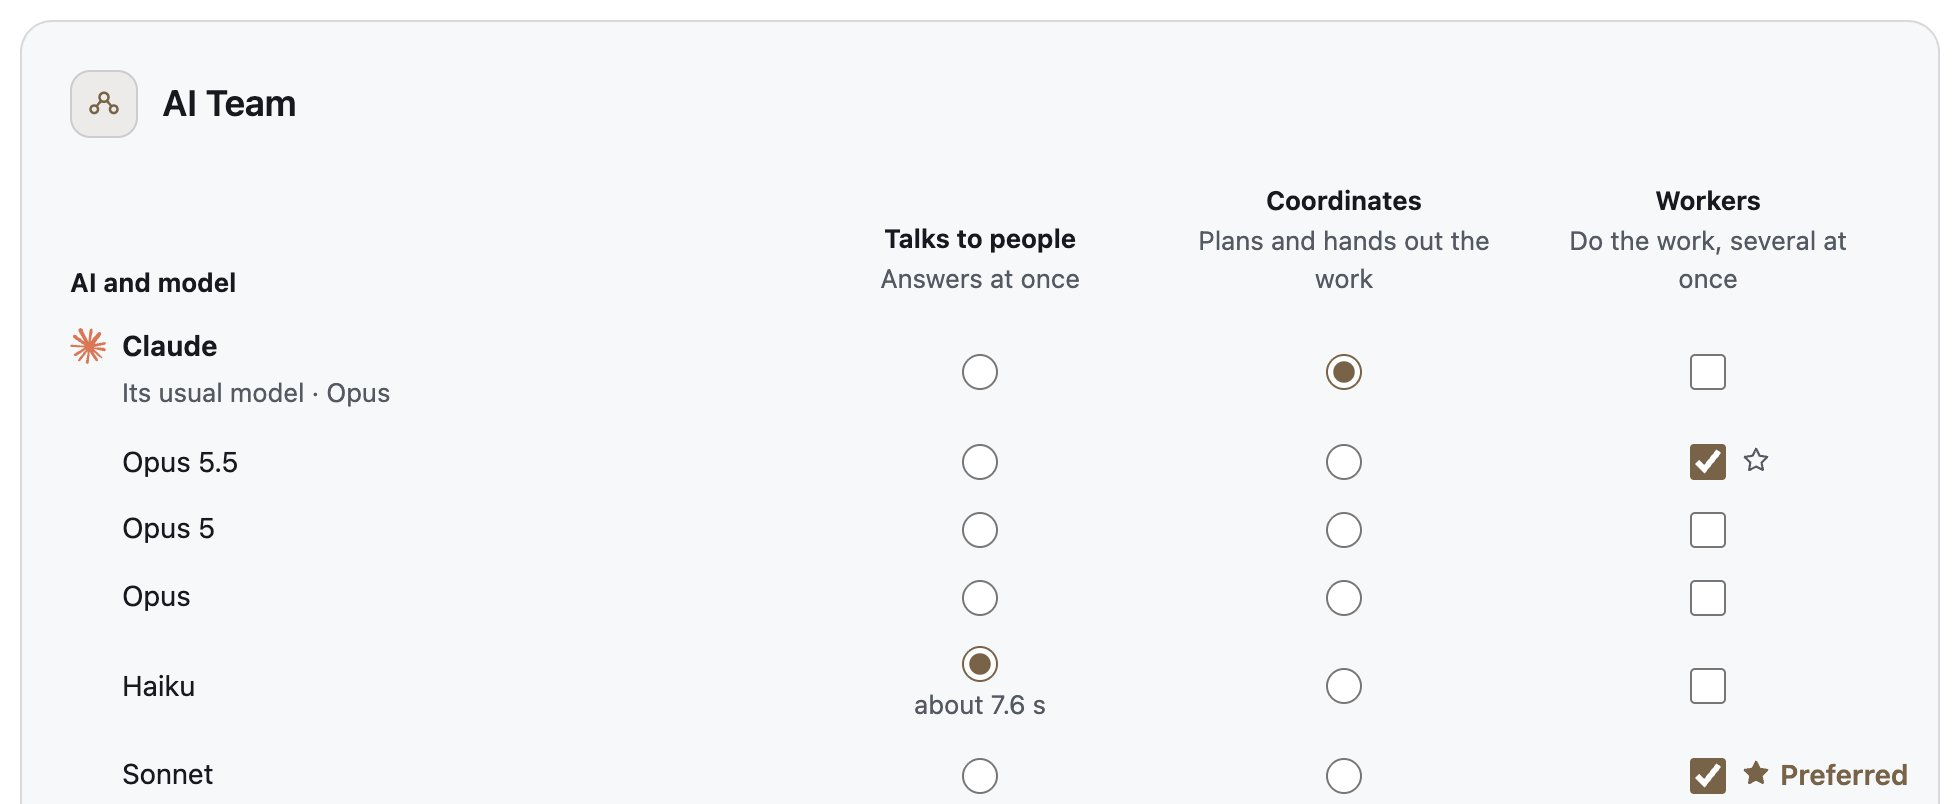
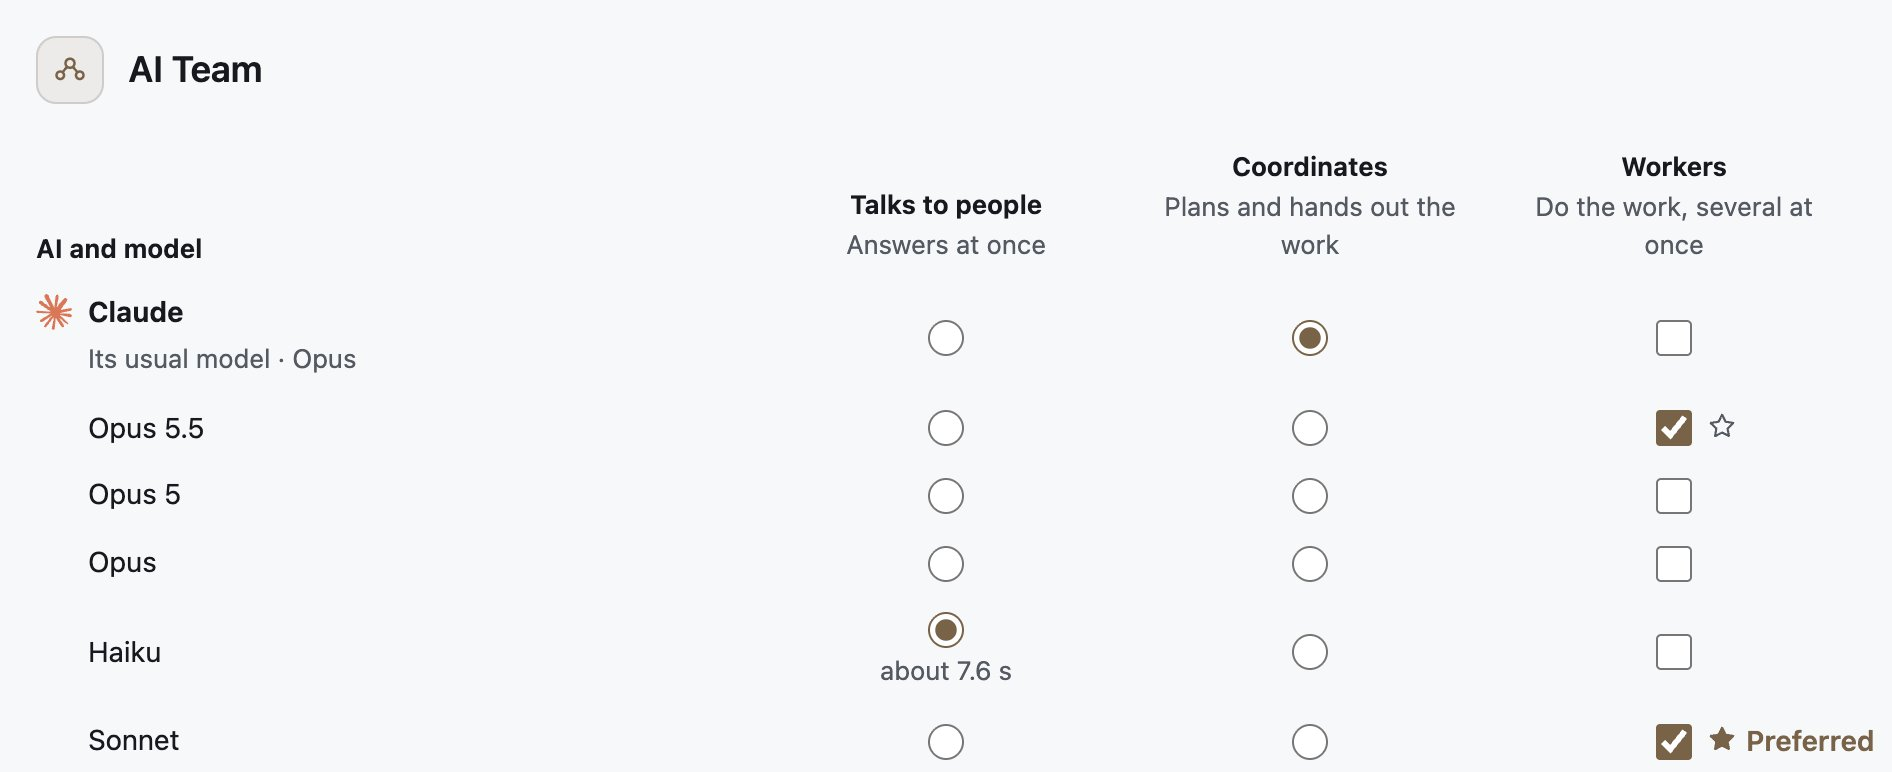
Fourth round: Ask me first said exactly; cleaner crops
- Ask me first, in the README, quickstart, guide, docs/10 and the 24
  November changelog entry: every answer and every job for a person on a
  channel waits for approval (the owner's own Chat is never held); three
  short messages go out without approval, each written with every tool
  off: the checking line, the reply after a Reject, and a line that it
  cannot do this now when Off is chosen while a request waits.
- The Needs you picture is captioned as a request the expert raised
  itself, with its own reason.
- Recropped: the AI team inside its card under the Sonnet row, the
  gallery inside the app frame, the Experts page without the next card.
- Code of conduct: Community Moderators throughout; no second route yet
  when a report concerns a maintainer.
- One spelling per file (expert, Skills, behavior), Run Project in
  docs/10, the October alt text, and the guide's copy of the October
  gallery named as kept for history.

diff --git a/docs/user-guide/index.html b/docs/user-guide/index.html
@@ -209,7 +209,7 @@
 <h3>In Microsoft Teams</h3>
 <p>In <b>Experts</b>, choose an expert, then <b>Channels → Add Teams</b>. Sign in on Microsoft's own page with the code shown; you become the first person allowed to message it, and you add the others. Press <b>Install in Teams</b> and send it a first message in its own chat: the channel is ready once that message arrives. If Teams says <b>Permissions needed</b>, your Teams administrator must turn on <b>Upload custom apps</b> for you.</p>
 <p>People write to it in a Teams personal chat; it answers short questions at once, hands bigger work to Workers, and the result arrives once in the same chat.</p>
-<p>Set <b>Ask me first</b> to <b>Always ask</b> and every answer and every job it prepares waits under <b>Needs you</b> until you approve it. Two short messages go out without approval, both written with every tool off: a line telling the person it is checking with you, and, if you reject, its reply saying it cannot help. <b>Activity</b> shows who asked what, on which channel and when. <a href="https://github.com/xPerfectAI/xPerfect/blob/main/docs/10_Experts_and_Channels.md">Setup and current limits</a>.</p>
+<p>Set <b>Ask me first</b> to <b>Always ask</b> and every answer and every job it prepares for a person on a channel waits under <b>Needs you</b> until you approve it; your own Chat with it is never held. Three short messages go out without approval, each written with every tool off: a line telling the person it is checking with you; its reply after you reject a request; and, if you switch to Off while a request waits, a line saying it cannot do this now. <b>Activity</b> shows who asked what, on which channel and when. <a href="https://github.com/xPerfectAI/xPerfect/blob/main/docs/10_Experts_and_Channels.md">Setup and current limits</a>.</p>
 </article>
 <figure><img src="assets/experts-page.jpg" alt="The Experts page with three saved experts and the Finance Director's setup" loading="lazy"><figcaption>The top of the Experts page: the row of saved experts, and what the Finance Director does. A staged synthetic example, 25 November 2026.</figcaption></figure>
 <figure><img src="assets/activity-filters.jpg" alt="Activity with three experts, lines in several statuses and the filters above them" loading="lazy"><figcaption>Activity: the filters, and lines in five statuses under Today. Same staged example.</figcaption></figure>

diff --git a/README.md b/README.md
@@ -22,7 +22,7 @@ computer or server.
 
 *Run Project's expert gallery, captured 25 November 2026: five starting professions and Create.*
 
-The aim: save an expert's knowledge and skills once, as an AI Worker setup you can reuse in
+The aim: save an expert's knowledge and Skills once, as an AI Worker setup you can reuse in
 xPerfect, from other AI apps and in your team's chat. The starting team below is one way to begin;
 you can create, save and adapt your own Workers.
 
@@ -59,7 +59,7 @@ schedules and results. Use xPerfect itself, connect another AI app, or build you
 Each package includes synthetic inputs, a sample job and checks you can repeat.
 [Walk through the Finance Director example](docs/workshop.md), including a follow-up and bad input.
 These are starting points, not professional credentials or certification. Their current native
-Skill path uses **Claude Code on the host**, with review for the actual Worker. Optional tools
+Skill path uses **Claude Code on the host**, with a review of each Worker's abilities. Optional tools
 keep their own setup and account requirements; choosing an expert does not authorize them.
 
 ![Actual Finance Director delivery in Watch, with an openable PDF and source-linked findings](docs/assets/screens/finance-delivery.jpg)
@@ -69,7 +69,7 @@ calculations, then [check them against their sources](docs/workshop.md#inspect-t
 
 ## Let people message your expert
 
-Set up an expert on the **Experts** page: what it does, its picture, its identity instructions,
+Set up an expert on the **Experts** page: what it does, its picture, its instructions,
 its knowledge and Skills, and the AI team that talks, coordinates and works. Connect it to
 Microsoft Teams and list the people who may message it. It answers short questions at once and
 hands bigger work to Workers in the background; the result arrives once, in the same chat.
@@ -78,10 +78,11 @@ hands bigger work to Workers in the background; the result arrives once, in the 
 
 *The top of the Experts page: the row of saved experts, and what the Finance Director does.*
 
-With **Ask me first** set to Always ask, every answer and every job the expert prepares waits
-under **Needs you** until you approve it. Two short messages go out without approval, both written
-with every tool off: a line telling the person it is checking with you, and, if you reject, its
-reply saying it cannot help.
+With **Ask me first** set to Always ask, every answer and every job the expert prepares for a
+person on a channel waits under **Needs you** until you approve it; your own Chat with it is never
+held. Three short messages go out without approval, each written with every tool off: a line
+telling the person it is checking with you; its reply after you reject a request; and, if you
+switch to Off while a request waits, a line saying it cannot do this now.
 
 **Activity** shows who asked what, on which channel and when, and narrows the list by expert or
 saved Worker, time, status or words.
@@ -156,7 +157,7 @@ Use the browser, your own code or another AI application:
 Requires macOS or Linux, Python 3.11 or newer, [uv](https://docs.astral.sh/uv/getting-started/installation/),
 and an installed AI tool: [Codex](https://developers.openai.com/codex/cli/),
 [Claude Code](https://code.claude.com/docs/en/setup) or [Grok](https://github.com/xai-org/grok-build).
-The bundled experts currently use Claude Code; the other existing Worker choices remain available.
+The bundled experts currently use Claude Code; Codex and Grok remain available for your own Workers.
 
 [Download the source](https://github.com/xPerfectAI/xPerfect/archive/refs/heads/main.zip),
 open a terminal in its folder, then run:
@@ -229,9 +230,9 @@ local-only inference. [Security](SECURITY.md) · [Capabilities](docs/capability-
   Credentials, browser sign-ins and native chat history are not copied. An unavailable or
   incompatible account needs a new selection. [Copy behavior](docs/capability-matrix.md).
 - **Experts on channels:** Microsoft Teams personal chats, proven on a local install in one
-  organisation. A copy on a server and a second real person are not yet proven; files, group
+  organization. A copy on a server and a second real person are not yet proven; files, group
   chats, Slack and approving from inside Teams are later capabilities. On this computer an
-  expert's Workers have full access, so its instructions and Ask me first guide its behaviour;
+  expert's Workers have full access, so its instructions and Ask me first guide its behavior;
   they are not a security boundary.
 - **Shared workspaces:** require a configured Linux host; use a separate workspace on a Mac.
   This limit is separate from supported local Chat. Chat offers only the routes the actual

diff --git a/CHANGELOG.md b/CHANGELOG.md
@@ -78,15 +78,15 @@ xPerfect is licensed under [Apache 2.0](LICENSE); this does not change GlassHive
 ![The Finance Director's Channels window: Teams connected, with the people who may message it.](docs/assets/screens/teams-channel-card.jpg)
 > **Image caption:** The Teams card of a staged synthetic expert, 25 November 2026. Its Connected badge reflects a local stand-in for Microsoft's service.
 
-![Needs you with one request: who asked, on which channel, their words and the reply that waits.](docs/assets/screens/needs-you-request.jpg)
-> **Image caption:** A real reply held on Always ask until the owner decides, in the same staged example.
+![Needs you with a request the expert raised itself: who asked, where, their words, its own reason and the reply that waits.](docs/assets/screens/needs-you-request.jpg)
+> **Image caption:** A request the expert raised itself on Always ask, with its own reason, in the same staged example.
 
 - **Benefit:** Reach an expert from a Teams personal chat. Only the people you list get an answer.
 - **Benefit:** Stay in control: see exactly what the expert would send or start, approve or reject it, and change its instructions for the next message.
 
 - **Added:** Experts people can talk to. Create and Edit hold the instructions, Knowledge and Skills from My Library, the AI team (who talks, who coordinates, who may work, with optional backups) and where it works. Every save is a new version. The speaking assistant reads the newest instructions at each turn; a running job keeps what it started with.
 - **Added:** A speaking assistant that never holds work. It answers short questions at once and hands anything bigger to a background coordinator, which runs Workers; the result is told once in the same conversation, also after a restart. New experts talk on Claude Haiku at low effort; Opus and Sonnet stay selectable, and the form shows each model's measured time.
-- **Added:** Ask me first, one setting: Always ask, Auto or Off. A request shows who asked, where, their words, the reason and exactly what would be sent or started. Approve releases exactly that; a changed or stopped request cannot be released by an old approval, and only a signed-in owner session decides. Requests wait under Needs you, with a count, a pop-up and an optional browser notification.
+- **Added:** Ask me first, one setting: Always ask, Auto or Off. A request shows who asked, where, their words, the reason and exactly what would be sent or started. Approve releases exactly that; a changed or stopped request cannot be released by an old approval, and only a signed-in owner session decides. Three short messages go out without approval, each written with every tool off: the line that the expert is checking with you, its reply after a Reject, and, if you switch to Off while a request waits, a line that it cannot do this now. Requests wait under Needs you, with a count, a pop-up and an optional browser notification.
 - **Added:** Channels, starting with Microsoft Teams personal chats, as an optional package beside core (`integrations/teams`). On a local install it uses Teams socket mode, so nothing on the computer is exposed. Each message is accepted once, every reply leaves through an outbox, and a send with no known outcome is shown as not confirmed and never resent by itself.
 - **Added:** Connect from the expert's Channels card, with Microsoft's sign-in code shown in the dialog. It reads Microsoft's custom-app report before creating anything, names the switch that blocks the app, offers a note for the administrator and checks again by itself. With a sign-in client configured, an administrator can add the app to the organisation's catalogue with one press.
 - **Added:** A durable Stop for a whole coordinator conversation (`POST /v1/coordinator/conversations/{id}/stop`). A finished Worker run wakes its conversation at once. Codex-format Skill folders load in Claude Code Workers.
@@ -108,7 +108,7 @@ xPerfect is licensed under [Apache 2.0](LICENSE); this does not change GlassHive
 >
 > **Topics:** Experts, Work control, Connections, Deployment, Reliability
 
-![The current expert gallery with five illustrated starting professions and Create.](docs/assets/screens/expert-team.jpg)
+![The expert gallery in October 2026, with five illustrated starting professions and Create.](docs/assets/screens/expert-team.jpg)
 > **Image caption:** Expert gallery, captured 25 October 2026: five packaged AI Workers and Create.
 
 ![Choose an exact saved Finance Director version from the Versions dialog.](docs/assets/screens/expert-versions.jpg)

diff --git a/CODE_OF_CONDUCT.md b/CODE_OF_CONDUCT.md
@@ -47,7 +47,7 @@ We agree to restrict the following behaviors in our community. Instances, threat
 Tensions can occur between community members even when they are trying their best to collaborate. Not every conflict represents a code of conduct violation, and this Code of Conduct reinforces encouraged behaviors and norms that can help avoid conflicts and minimize harm.
 
 <!-- Conduct contact: the sentence below that starts "To report a possible violation" names the reporting route. Replace that sentence when a private conduct address exists. -->
-When an incident does occur, it is important to report it promptly. To report a possible violation, use GitHub's [private reporting form](https://github.com/xPerfectAI/xPerfect/security/advisories/new) and start the title with "Conduct:". The form is also used for security reports; a report made there is visible only to the repository's maintainers, named in [`.github/CODEOWNERS`](.github/CODEOWNERS), who are this project's Community Moderators. Do not report it in a public issue, pull request or comment.
+When an incident does occur, it is important to report it promptly. To report a possible violation, use GitHub's [private reporting form](https://github.com/xPerfectAI/xPerfect/security/advisories/new) and start the title with "Conduct:". The form is also used for security reports; a report made there is visible only to the repository's maintainers, named in [`.github/CODEOWNERS`](.github/CODEOWNERS), who are this project's Community Moderators. If the report concerns a maintainer, there is no second route yet. Do not report it in a public issue, pull request or comment.
 
 Community Moderators take reports of violations seriously and will make every effort to respond in a timely manner. They will investigate all reports of code of conduct violations, reviewing messages, logs, and recordings, or interviewing witnesses and other participants. Community Moderators will keep investigation and enforcement actions as transparent as possible while prioritizing safety and confidentiality. In order to honor these values, enforcement actions are carried out in private with the involved parties, but communicating to the whole community may be part of a mutually agreed upon resolution.
 
@@ -73,7 +73,7 @@ If an investigation by the Community Moderators finds that this Code of Conduct 
    2) Consequence: Access to all community spaces, tools, and communication channels is removed. In general, permanent bans should be rarely used, should have strong reasoning behind them, and should only be resorted to if working through other remedies has failed to change the behavior.
    3) Repair: There is no possible repair in cases of this severity.
 
-This enforcement ladder is intended as a guideline. It does not limit the ability of Community Managers to use their discretion and judgment, in keeping with the best interests of our community.
+This enforcement ladder is intended as a guideline. It does not limit the ability of Community Moderators to use their discretion and judgment, in keeping with the best interests of our community.
 
 
 ## Scope

diff --git a/docs/10_Experts_and_Channels.md b/docs/10_Experts_and_Channels.md
@@ -47,9 +47,9 @@ those Workers on this computer's sign-in; a connected account cannot serve it an
 ## The Experts page
 
 The **Experts** tab, right after Run Project, shows one Expert's whole setup on one page in Run
-project's style; Run Project's Edit and the "+" card in My experts open it. From the top:
+Project's style; Run Project's Edit and the "+" card in My experts open it. From the top:
 
-- your experts as a row (each with its picture), and **New expert**;
+- your Experts as a row (each with its picture), and **New expert**;
 - **What Does This Expert Do?**: the picture (Teams shows it as the app icon; kept on this computer, not
   in its versions), the description and the name; a saved one shows its version, **Chat** and **Channels**;
 - **Identity Instructions**, in one box that grows with its text;
@@ -108,13 +108,16 @@ measured on that install.*
 
 ## Ask me first
 
-One mechanism: the reply or job the Expert prepares waits for the owner. Two short lines go out without
-approval, both written with every native tool off: on Always ask the line telling the person it is
-checking, and after a Reject the Expert's own reply.
+One mechanism: the reply or job the Expert prepares for a person on a channel waits for the owner; the
+owner's own Chat is never held. Three short lines go out without approval, each written with every
+native tool off: on Always ask the line telling the person it is checking; after a Reject the Expert's
+own reply; and, when the owner switches to Off while a request waits, a line that it cannot do this
+now (the request is withdrawn).
 
-![Needs you with one request: who asked, on which channel, their words and the reply that waits](assets/screens/needs-you-request.jpg)
+![Needs you with a request the Expert raised itself: who asked, where, their words, its own reason and the reply that waits](assets/screens/needs-you-request.jpg)
 
-*A real reply held on Always ask, in the staged synthetic example, 25 November 2026.*
+*A request the Expert raised itself on Always ask, with its own reason, in the staged synthetic example,
+25 November 2026.*
 
 - A request shows exactly what waits: a reply with its text, or a job with its goal, plus who
   asked, where, when, and the Expert's reason.
@@ -171,7 +174,7 @@ or a server for a wall.
 
 ![The Finance Director's Channels window: Teams connected, with the people who may message it](assets/screens/teams-channel-card.jpg)
 
-*The Teams card of a staged synthetic expert, 25 November 2026. Its Connected badge reflects a local
+*The Teams card of a staged synthetic Expert, 25 November 2026. Its Connected badge reflects a local
 stand-in for Microsoft's service, not a Microsoft connection, and its people were added directly, so
 the owner is not listed.*
 

diff --git a/docs/assets/screens/README.md b/docs/assets/screens/README.md
@@ -18,8 +18,9 @@ with its own changelog entry. The Finance captures
 retain their actual 24 October scope. Do not retake an unchanged result merely to change its date.
 
 `docs/user-guide/assets/` holds byte-identical publication mirrors of the files the guide uses
-(`expert-team.jpg`, `expert-gallery.jpg`, `finance-delivery.jpg`, `finance-report.png`,
-`expert-versions.jpg`, `experts-page.jpg` and `activity-filters.jpg`) so the portable
+(`expert-gallery.jpg`, `finance-delivery.jpg`, `finance-report.png`, `expert-versions.jpg`,
+`experts-page.jpg` and `activity-filters.jpg`; its copy of `expert-team.jpg` is no longer shown and is
+kept for history) so the portable
 guide and its existing same-origin website publication work. These files remain the
 canonical image source; update mirrors by exact copy, not by separate editing.
 
@@ -47,7 +48,7 @@ stored rows, without an AI run, to show each status.
 | `experts-page.jpg` | The Experts page: the row of experts with their pictures, and what the Finance Director does. | README, guide, `docs/10`, changelog |
 | `experts-ai-team.jpg` | The AI team table: who talks, who coordinates, the Workers and the Preferred one. | `docs/10` |
 | `teams-channel-card.jpg` | The Teams card in an expert's Channels window, with the people who may message it; its Connected badge reflects the stand-in. | `docs/10`, changelog |
-| `needs-you-request.jpg` | A request under Needs you: who asked, where, their words and the reply that waits. | `docs/10`, changelog |
+| `needs-you-request.jpg` | A request the expert raised itself under Needs you: who asked, where, their words, its own reason and the reply that waits. | `docs/10`, changelog |
 | `activity-filters.jpg` | Activity's filters and lines in several statuses. | README, guide, `docs/07`, changelog |
 | `activity-line-opened.jpg` | One line opened with its recorded steps: the message, the job and what was sent back, with the engine steps folded under Details. | `docs/07`, changelog |
 | `run-project-my-experts.jpg` | Run Project's My experts with each expert's own picture. | changelog |

diff --git a/docs/quickstart.md b/docs/quickstart.md
@@ -110,10 +110,11 @@ expert: the channel is ready once that message arrives. If Teams says **Permissi
 Teams administrator must turn on **Upload custom apps** for you; the Channels window names the
 switch and offers a note to send.
 
-With **Ask me first** set to Always ask, every answer and every job the expert prepares waits
-under **Needs you** until you approve it. Two short messages go out without approval, both written
-with every tool off: a line telling the person it is checking with you, and, if you reject, its
-reply saying it cannot help. **Activity** shows each message, who sent it and its status.
+With **Ask me first** set to Always ask, every answer and every job the expert prepares for a
+person on a channel waits under **Needs you** until you approve it; your own Chat with it is never
+held. Three short messages go out without approval, each written with every tool off: a line
+telling the person it is checking with you; its reply after you reject a request; and, if you
+switch to Off while a request waits, a line saying it cannot do this now. **Activity** shows each message, who sent it and its status.
 [Experts on channels](10_Experts_and_Channels.md) has the full setup and its current limits.
 
 ### Manage experts and workspaces
